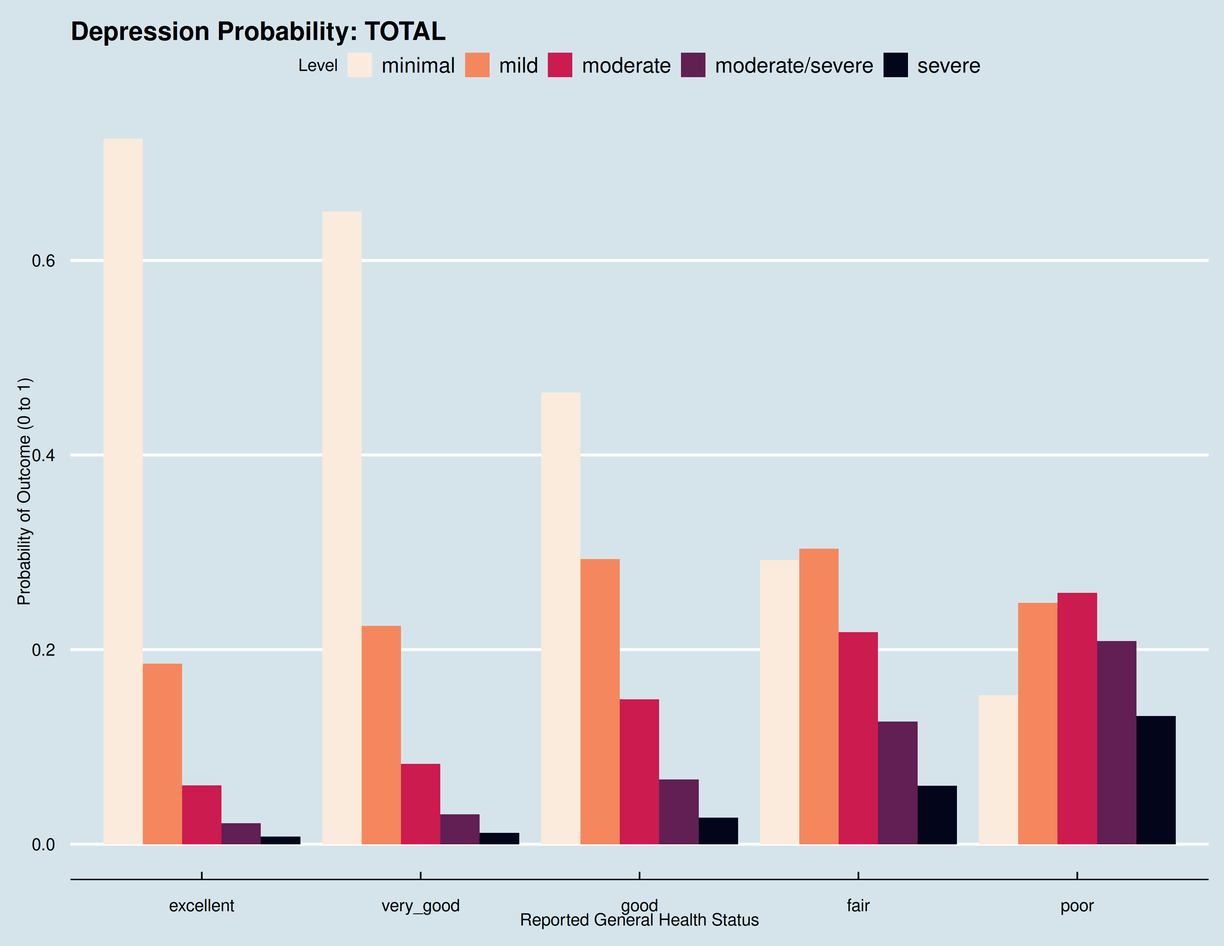
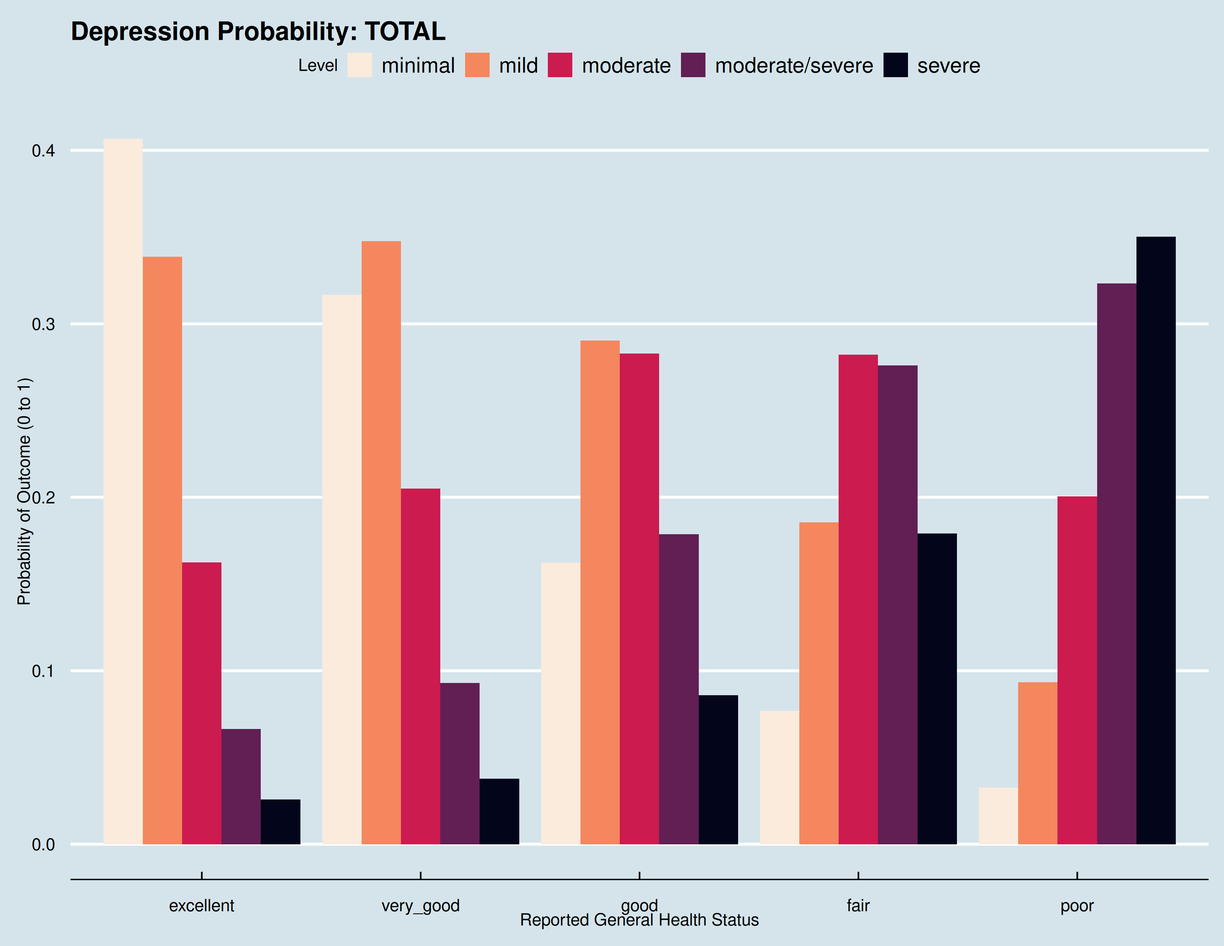
update interactive elements and fix shiny server rendering

Changed region(s): [[0.0312, 0.2169, 0.9988, 0.8984], [0.1248, 0.1549, 0.9676, 0.1859]]

diff --git a/figs/TOTAL.html b/figs/TOTAL.html
@@ -15,7 +15,7 @@
 
 </head>
 <body>
-<div class="girafe html-widget html-fill-item" id="htmlwidget-1cc1c3096321bd8302cf" style="width:960px;height:500px;"></div>
-<script type="application/json" data-for="htmlwidget-1cc1c3096321bd8302cf">{"x":{"html":"<?xml version=\"1.0\" encoding=\"UTF-8\"?>\n<svg xmlns='http://www.w3.org/2000/svg' xmlns:xlink='http://www.w3.org/1999/xlink' class='ggiraph-svg' role='graphics-document' id='svg_d3dea62f_7b63_4776_acbc_1efb795c2a20' viewBox='0 0 792 612'>\n <defs id='svg_d3dea62f_7b63_4776_acbc_1efb795c2a20_defs'>\n  <clipPath id='svg_d3dea62f_7b63_4776_acbc_1efb795c2a20_c1'>\n   <rect x='0' y='0' width='792' height='612'/>\n  <\/clipPath>\n  <clipPath id='svg_d3dea62f_7b63_4776_acbc_1efb795c2a20_c2'>\n   <rect x='45.95' y='66.9' width='736.08' height='502.19'/>\n  <\/clipPath>\n <\/defs>\n <g id='svg_d3dea62f_7b63_4776_acbc_1efb795c2a20_rootg' class='ggiraph-svg-rootg'>\n  <g clip-path='url(#svg_d3dea62f_7b63_4776_acbc_1efb795c2a20_c1)'>\n   <rect x='0' y='0' width='792' height='612' fill='#FFFFFF' fill-opacity='1' stroke='#FFFFFF' stroke-opacity='1' stroke-width='0.75' stroke-linejoin='round' stroke-linecap='round' class='ggiraph-svg-bg'/>\n   <rect x='-0' y='0' width='792' height='612' fill='#D5E4EB' fill-opacity='1' stroke='none'/>\n  <\/g>\n  <g clip-path='url(#svg_d3dea62f_7b63_4776_acbc_1efb795c2a20_c2)'>\n   <rect x='45.95' y='66.9' width='736.08' height='502.19' fill='none' stroke='none'/>\n   <polyline points='45.95,546.26 782.04,546.26' fill='none' stroke='#FFFFFF' stroke-opacity='1' stroke-width='1.87' stroke-linejoin='round' stroke-linecap='butt'/>\n   <polyline points='45.95,420.30 782.04,420.30' fill='none' stroke='#FFFFFF' stroke-opacity='1' stroke-width='1.87' stroke-linejoin='round' stroke-linecap='butt'/>\n   <polyline points='45.95,294.34 782.04,294.34' fill='none' stroke='#FFFFFF' stroke-opacity='1' stroke-width='1.87' stroke-linejoin='round' stroke-linecap='butt'/>\n   <polyline points='45.95,168.39 782.04,168.39' fill='none' stroke='#FFFFFF' stroke-opacity='1' stroke-width='1.87' stroke-linejoin='round' stroke-linecap='butt'/>\n   <rect id='svg_d3dea62f_7b63_4776_acbc_1efb795c2a20_e1' x='67.19' y='89.73' width='25.48' height='456.53' fill='#FAEBDD' fill-opacity='1' stroke='none' title='0.724900371297214' data-id='0.724900371297214'/>\n   <rect id='svg_d3dea62f_7b63_4776_acbc_1efb795c2a20_e2' x='92.67' y='429.52' width='25.48' height='116.74' fill='#F4875E' fill-opacity='1' stroke='none' title='0.185363306321178' data-id='0.185363306321178'/>\n   <rect id='svg_d3dea62f_7b63_4776_acbc_1efb795c2a20_e3' x='118.15' y='508.26' width='25.48' height='38' fill='#CB1B4F' fill-opacity='1' stroke='none' title='0.0603359377506501' data-id='0.0603359377506501'/>\n   <rect id='svg_d3dea62f_7b63_4776_acbc_1efb795c2a20_e4' x='143.63' y='532.74' width='25.48' height='13.52' fill='#611F53' fill-opacity='1' stroke='none' title='0.0214600208213575' data-id='0.0214600208213575'/>\n   <rect id='svg_d3dea62f_7b63_4776_acbc_1efb795c2a20_e5' x='169.11' y='541.26' width='25.48' height='5' fill='#03051A' fill-opacity='1' stroke='none' title='0.00794036380960032' data-id='0.00794036380960032'/>\n   <rect id='svg_d3dea62f_7b63_4776_acbc_1efb795c2a20_e6' x='491.85' y='362.37' width='25.48' height='183.89' fill='#FAEBDD' fill-opacity='1' stroke='none' title='0.291980369649558' data-id='0.291980369649558'/>\n   <rect id='svg_d3dea62f_7b63_4776_acbc_1efb795c2a20_e7' x='517.33' y='354.89' width='25.48' height='191.37' fill='#F4875E' fill-opacity='1' stroke='none' title='0.303863073774278' data-id='0.303863073774278'/>\n   <rect id='svg_d3dea62f_7b63_4776_acbc_1efb795c2a20_e8' x='542.81' y='408.93' width='25.48' height='137.33' fill='#CB1B4F' fill-opacity='1' stroke='none' title='0.218054753993619' data-id='0.218054753993619'/>\n   <rect id='svg_d3dea62f_7b63_4776_acbc_1efb795c2a20_e9' x='568.29' y='466.95' width='25.48' height='79.31' fill='#611F53' fill-opacity='1' stroke='none' title='0.125930025516381' data-id='0.125930025516381'/>\n   <rect id='svg_d3dea62f_7b63_4776_acbc_1efb795c2a20_e10' x='593.77' y='508.36' width='25.48' height='37.9' fill='#03051A' fill-opacity='1' stroke='none' title='0.060171777066163' data-id='0.060171777066163'/>\n   <rect id='svg_d3dea62f_7b63_4776_acbc_1efb795c2a20_e11' x='350.3' y='253.82' width='25.48' height='292.44' fill='#FAEBDD' fill-opacity='1' stroke='none' title='0.464351244892708' data-id='0.464351244892708'/>\n   <rect id='svg_d3dea62f_7b63_4776_acbc_1efb795c2a20_e12' x='375.78' y='361.73' width='25.48' height='184.53' fill='#F4875E' fill-opacity='1' stroke='none' title='0.293004276992802' data-id='0.293004276992802'/>\n   <rect id='svg_d3dea62f_7b63_4776_acbc_1efb795c2a20_e13' x='401.26' y='452.53' width='25.48' height='93.73' fill='#CB1B4F' fill-opacity='1' stroke='none' title='0.148827529385085' data-id='0.148827529385085'/>\n   <rect id='svg_d3dea62f_7b63_4776_acbc_1efb795c2a20_e14' x='426.74' y='504.35' width='25.48' height='41.91' fill='#611F53' fill-opacity='1' stroke='none' title='0.0665445408619174' data-id='0.0665445408619174'/>\n   <rect id='svg_d3dea62f_7b63_4776_acbc_1efb795c2a20_e15' x='452.22' y='529.08' width='25.48' height='17.18' fill='#03051A' fill-opacity='1' stroke='none' title='0.027272407867487' data-id='0.027272407867487'/>\n   <rect id='svg_d3dea62f_7b63_4776_acbc_1efb795c2a20_e16' x='633.4' y='449.86' width='25.48' height='96.4' fill='#FAEBDD' fill-opacity='1' stroke='none' title='0.15306659970715' data-id='0.15306659970715'/>\n   <rect id='svg_d3dea62f_7b63_4776_acbc_1efb795c2a20_e17' x='658.88' y='390.06' width='25.48' height='156.2' fill='#F4875E' fill-opacity='1' stroke='none' title='0.248014008580092' data-id='0.248014008580092'/>\n   <rect id='svg_d3dea62f_7b63_4776_acbc_1efb795c2a20_e18' x='684.36' y='383.62' width='25.48' height='162.64' fill='#CB1B4F' fill-opacity='1' stroke='none' title='0.258242639632563' data-id='0.258242639632563'/>\n   <rect id='svg_d3dea62f_7b63_4776_acbc_1efb795c2a20_e19' x='709.84' y='414.78' width='25.48' height='131.48' fill='#611F53' fill-opacity='1' stroke='none' title='0.208764873779622' data-id='0.208764873779622'/>\n   <rect id='svg_d3dea62f_7b63_4776_acbc_1efb795c2a20_e20' x='735.32' y='463.18' width='25.48' height='83.08' fill='#03051A' fill-opacity='1' stroke='none' title='0.131911878300572' data-id='0.131911878300572'/>\n   <rect id='svg_d3dea62f_7b63_4776_acbc_1efb795c2a20_e21' x='208.74' y='136.71' width='25.48' height='409.55' fill='#FAEBDD' fill-opacity='1' stroke='none' title='0.650299608507743' data-id='0.650299608507743'/>\n   <rect id='svg_d3dea62f_7b63_4776_acbc_1efb795c2a20_e22' x='234.22' y='404.83' width='25.48' height='141.43' fill='#F4875E' fill-opacity='1' stroke='none' title='0.224563516995641' data-id='0.224563516995641'/>\n   <rect id='svg_d3dea62f_7b63_4776_acbc_1efb795c2a20_e23' x='259.7' y='494.28' width='25.48' height='51.98' fill='#CB1B4F' fill-opacity='1' stroke='none' title='0.0825371560091628' data-id='0.0825371560091628'/>\n   <rect id='svg_d3dea62f_7b63_4776_acbc_1efb795c2a20_e24' x='285.18' y='526.79' width='25.48' height='19.47' fill='#611F53' fill-opacity='1' stroke='none' title='0.0309202962936936' data-id='0.0309202962936936'/>\n   <rect id='svg_d3dea62f_7b63_4776_acbc_1efb795c2a20_e25' x='310.66' y='538.9' width='25.48' height='7.36' fill='#03051A' fill-opacity='1' stroke='none' title='0.0116794221937591' data-id='0.0116794221937591'/>\n  <\/g>\n  <g clip-path='url(#svg_d3dea62f_7b63_4776_acbc_1efb795c2a20_c1)'>\n   <text x='20.46' y='550.19' font-size='8.25pt' font-family='Noto Sans'>0.0<\/text>\n   <text x='20.46' y='424.23' font-size='8.25pt' font-family='Noto Sans'>0.2<\/text>\n   <text x='20.46' y='298.27' font-size='8.25pt' font-family='Noto Sans'>0.4<\/text>\n   <text x='20.46' y='172.31' font-size='8.25pt' font-family='Noto Sans'>0.6<\/text>\n   <polyline points='45.95,569.09 782.04,569.09' fill='none' stroke='#000000' stroke-opacity='1' stroke-width='0.85' stroke-linejoin='round' stroke-linecap='butt'/>\n   <polyline points='130.89,564.11 130.89,569.09' fill='none' stroke='#000000' stroke-opacity='1' stroke-width='1.07' stroke-linejoin='round' stroke-linecap='butt'/>\n   <polyline points='272.44,564.11 272.44,569.09' fill='none' stroke='#000000' stroke-opacity='1' stroke-width='1.07' stroke-linejoin='round' stroke-linecap='butt'/>\n   <polyline points='414.00,564.11 414.00,569.09' fill='none' stroke='#000000' stroke-opacity='1' stroke-width='1.07' stroke-linejoin='round' stroke-linecap='butt'/>\n   <polyline points='555.55,564.11 555.55,569.09' fill='none' stroke='#000000' stroke-opacity='1' stroke-width='1.07' stroke-linejoin='round' stroke-linecap='butt'/>\n   <polyline points='697.10,564.11 697.10,569.09' fill='none' stroke='#000000' stroke-opacity='1' stroke-width='1.07' stroke-linejoin='round' stroke-linecap='butt'/>\n   <text x='107.81' y='589.55' font-size='8.25pt' font-family='Noto Sans'>excellent<\/text>\n   <text x='245.61' y='589.55' font-size='8.25pt' font-family='Noto Sans'>very_good<\/text>\n   <text x='400.57' y='589.55' font-size='8.25pt' font-family='Noto Sans'>good<\/text>\n   <text x='546.88' y='589.55' font-size='8.25pt' font-family='Noto Sans'>fair<\/text>\n   <text x='684.8' y='589.55' font-size='8.25pt' font-family='Noto Sans'>poor<\/text>\n   <text x='332.16' y='598.72' font-size='8.25pt' font-family='Noto Sans'>Reported General Health Status<\/text>\n   <text transform='translate(19.14,396.98) rotate(-90.00)' font-size='8.25pt' font-family='Noto Sans'>Probability of Outcome (0 to 1)<\/text>\n   <rect x='175.56' y='27.7' width='476.87' height='28.24' fill='none' stroke='none'/>\n   <text x='181.04' y='45.75' font-size='8.25pt' font-family='Noto Sans'>Level<\/text>\n   <rect x='213.13' y='33.18' width='17.28' height='17.28' fill='none' stroke='none'/>\n   <rect x='213.83' y='33.89' width='15.86' height='15.86' fill='#FAEBDD' fill-opacity='1' stroke='none'/>\n   <rect x='293.94' y='33.18' width='17.28' height='17.28' fill='none' stroke='none'/>\n   <rect x='294.65' y='33.89' width='15.86' height='15.86' fill='#F4875E' fill-opacity='1' stroke='none'/>\n   <rect x='350.59' y='33.18' width='17.28' height='17.28' fill='none' stroke='none'/>\n   <rect x='351.3' y='33.89' width='15.86' height='15.86' fill='#CB1B4F' fill-opacity='1' stroke='none'/>\n   <rect x='442.32' y='33.18' width='17.28' height='17.28' fill='none' stroke='none'/>\n   <rect x='443.03' y='33.89' width='15.86' height='15.86' fill='#611F53' fill-opacity='1' stroke='none'/>\n   <rect x='581.67' y='33.18' width='17.28' height='17.28' fill='none' stroke='none'/>\n   <rect x='582.38' y='33.89' width='15.86' height='15.86' fill='#03051A' fill-opacity='1' stroke='none'/>\n   <text x='235.88' y='46.73' font-size='10.31pt' font-family='Noto Sans'>minimal<\/text>\n   <text x='316.7' y='46.73' font-size='10.31pt' font-family='Noto Sans'>mild<\/text>\n   <text x='373.35' y='46.73' font-size='10.31pt' font-family='Noto Sans'>moderate<\/text>\n   <text x='465.08' y='46.73' font-size='10.31pt' font-family='Noto Sans'>moderate/severe<\/text>\n   <text x='604.43' y='46.73' font-size='10.31pt' font-family='Noto Sans'>severe<\/text>\n   <text x='45.95' y='25.72' font-size='12.38pt' font-weight='bold' font-family='Noto Sans'>Depression Probability: TOTAL<\/text>\n  <\/g>\n <\/g>\n<\/svg>","js":null,"uid":"svg_d3dea62f_7b63_4776_acbc_1efb795c2a20","ratio":1.294117647058824,"settings":{"tooltip":{"css":".tooltip_SVGID_ { padding:5px;background:black;color:white;border-radius:2px 2px 2px 2px;text-align:left; ; position:absolute;pointer-events:none;z-index:999;}","placement":"doc","opacity":0.9,"offx":10,"offy":0,"use_cursor_pos":true,"use_fill":false,"use_stroke":false,"delay_over":200,"delay_out":500},"hover":{"css":".hover_data_SVGID_ { fill:orange;stroke:gray; }","reactive":false,"nearest_distance":null},"hover_inv":{"css":""},"hover_key":{"css":".hover_key_SVGID_ { fill:orange;stroke:black;cursor:pointer; }\ntext.hover_key_SVGID_ { stroke:none;fill:orange; }\ncircle.hover_key_SVGID_ { fill:orange;stroke:black; }\nline.hover_key_SVGID_, polyline.hover_key_SVGID_ { fill:none;stroke:orange; }\nrect.hover_key_SVGID_, polygon.hover_key_SVGID_, path.hover_key_SVGID_ { fill:orange;stroke:none; }\nimage.hover_key_SVGID_ { stroke:orange; }","reactive":true},"hover_theme":{"css":".hover_theme_SVGID_ { fill:orange;stroke:black;cursor:pointer; }\ntext.hover_theme_SVGID_ { stroke:none;fill:orange; }\ncircle.hover_theme_SVGID_ { fill:orange;stroke:black; }\nline.hover_theme_SVGID_, polyline.hover_theme_SVGID_ { fill:none;stroke:orange; }\nrect.hover_theme_SVGID_, polygon.hover_theme_SVGID_, path.hover_theme_SVGID_ { fill:orange;stroke:none; }\nimage.hover_theme_SVGID_ { stroke:orange; }","reactive":true},"select":{"css":".select_data_SVGID_ { fill:red;stroke:gray; }","type":"multiple","only_shiny":true,"selected":[]},"select_inv":{"css":""},"select_key":{"css":".select_key_SVGID_ { fill:red;stroke:black;cursor:pointer; }\ntext.select_key_SVGID_ { stroke:none;fill:red; }\ncircle.select_key_SVGID_ { fill:red;stroke:black; }\nline.select_key_SVGID_, polyline.select_key_SVGID_ { fill:none;stroke:red; }\nrect.select_key_SVGID_, polygon.select_key_SVGID_, path.select_key_SVGID_ { fill:red;stroke:none; }\nimage.select_key_SVGID_ { stroke:red; }","type":"single","only_shiny":true,"selected":[]},"select_theme":{"css":".select_theme_SVGID_ { fill:red;stroke:black;cursor:pointer; }\ntext.select_theme_SVGID_ { stroke:none;fill:red; }\ncircle.select_theme_SVGID_ { fill:red;stroke:black; }\nline.select_theme_SVGID_, polyline.select_theme_SVGID_ { fill:none;stroke:red; }\nrect.select_theme_SVGID_, polygon.select_theme_SVGID_, path.select_theme_SVGID_ { fill:red;stroke:none; }\nimage.select_theme_SVGID_ { stroke:red; }","type":"single","only_shiny":true,"selected":[]},"zoom":{"min":1,"max":1,"duration":300},"toolbar":{"position":"top","pngname":"diagram","tooltips":null,"fixed":false,"hidden":"saveaspng","delay_over":200,"delay_out":500},"sizing":{"rescale":true,"width":0.75}}},"evals":[],"jsHooks":[]}</script>
+<div class="girafe html-widget html-fill-item" id="htmlwidget-b300f3db3144e7601efc" style="width:960px;height:500px;"></div>
+<script type="application/json" data-for="htmlwidget-b300f3db3144e7601efc">{"x":{"html":"<?xml version=\"1.0\" encoding=\"UTF-8\"?>\n<svg xmlns='http://www.w3.org/2000/svg' xmlns:xlink='http://www.w3.org/1999/xlink' class='ggiraph-svg' role='graphics-document' id='svg_cace046c_fe5b_460c_bc5a_4e7984a5590c' viewBox='0 0 792 612'>\n <defs id='svg_cace046c_fe5b_460c_bc5a_4e7984a5590c_defs'>\n  <clipPath id='svg_cace046c_fe5b_460c_bc5a_4e7984a5590c_c1'>\n   <rect x='0' y='0' width='792' height='612'/>\n  <\/clipPath>\n  <clipPath id='svg_cace046c_fe5b_460c_bc5a_4e7984a5590c_c2'>\n   <rect x='45.95' y='66.9' width='736.08' height='502.19'/>\n  <\/clipPath>\n <\/defs>\n <g id='svg_cace046c_fe5b_460c_bc5a_4e7984a5590c_rootg' class='ggiraph-svg-rootg'>\n  <g clip-path='url(#svg_cace046c_fe5b_460c_bc5a_4e7984a5590c_c1)'>\n   <rect x='0' y='0' width='792' height='612' fill='#FFFFFF' fill-opacity='1' stroke='#FFFFFF' stroke-opacity='1' stroke-width='0.75' stroke-linejoin='round' stroke-linecap='round' class='ggiraph-svg-bg'/>\n   <rect x='-0' y='0' width='792' height='612' fill='#D5E4EB' fill-opacity='1' stroke='none'/>\n  <\/g>\n  <g clip-path='url(#svg_cace046c_fe5b_460c_bc5a_4e7984a5590c_c2)'>\n   <rect x='45.95' y='66.9' width='736.08' height='502.19' fill='none' stroke='none'/>\n   <polyline points='45.95,546.26 782.04,546.26' fill='none' stroke='#FFFFFF' stroke-opacity='1' stroke-width='1.87' stroke-linejoin='round' stroke-linecap='butt'/>\n   <polyline points='45.95,433.99 782.04,433.99' fill='none' stroke='#FFFFFF' stroke-opacity='1' stroke-width='1.87' stroke-linejoin='round' stroke-linecap='butt'/>\n   <polyline points='45.95,321.73 782.04,321.73' fill='none' stroke='#FFFFFF' stroke-opacity='1' stroke-width='1.87' stroke-linejoin='round' stroke-linecap='butt'/>\n   <polyline points='45.95,209.46 782.04,209.46' fill='none' stroke='#FFFFFF' stroke-opacity='1' stroke-width='1.87' stroke-linejoin='round' stroke-linecap='butt'/>\n   <polyline points='45.95,97.19 782.04,97.19' fill='none' stroke='#FFFFFF' stroke-opacity='1' stroke-width='1.87' stroke-linejoin='round' stroke-linecap='butt'/>\n   <rect id='svg_cace046c_fe5b_460c_bc5a_4e7984a5590c_e1' x='67.19' y='89.73' width='25.48' height='456.53' fill='#FAEBDD' fill-opacity='1' stroke='none' title='0.406650027697983' data-id='0.406650027697983'/>\n   <rect id='svg_cace046c_fe5b_460c_bc5a_4e7984a5590c_e2' x='92.67' y='166' width='25.48' height='380.26' fill='#F4875E' fill-opacity='1' stroke='none' title='0.338710519052436' data-id='0.338710519052436'/>\n   <rect id='svg_cace046c_fe5b_460c_bc5a_4e7984a5590c_e3' x='118.15' y='363.92' width='25.48' height='182.34' fill='#CB1B4F' fill-opacity='1' stroke='none' title='0.162416967273828' data-id='0.162416967273828'/>\n   <rect id='svg_cace046c_fe5b_460c_bc5a_4e7984a5590c_e4' x='143.63' y='471.75' width='25.48' height='74.51' fill='#611F53' fill-opacity='1' stroke='none' title='0.0663719626215128' data-id='0.0663719626215128'/>\n   <rect id='svg_cace046c_fe5b_460c_bc5a_4e7984a5590c_e5' x='169.11' y='517.24' width='25.48' height='29.02' fill='#03051A' fill-opacity='1' stroke='none' title='0.0258505233542394' data-id='0.0258505233542394'/>\n   <rect id='svg_cace046c_fe5b_460c_bc5a_4e7984a5590c_e6' x='491.85' y='459.93' width='25.48' height='86.33' fill='#FAEBDD' fill-opacity='1' stroke='none' title='0.0768944607267733' data-id='0.0768944607267733'/>\n   <rect id='svg_cace046c_fe5b_460c_bc5a_4e7984a5590c_e7' x='517.33' y='337.98' width='25.48' height='208.28' fill='#F4875E' fill-opacity='1' stroke='none' title='0.185519624028636' data-id='0.185519624028636'/>\n   <rect id='svg_cace046c_fe5b_460c_bc5a_4e7984a5590c_e8' x='542.81' y='229.34' width='25.48' height='316.92' fill='#CB1B4F' fill-opacity='1' stroke='none' title='0.282295445754428' data-id='0.282295445754428'/>\n   <rect id='svg_cace046c_fe5b_460c_bc5a_4e7984a5590c_e9' x='568.29' y='236.31' width='25.48' height='309.96' fill='#611F53' fill-opacity='1' stroke='none' title='0.276087332531559' data-id='0.276087332531559'/>\n   <rect id='svg_cace046c_fe5b_460c_bc5a_4e7984a5590c_e10' x='593.77' y='345.07' width='25.48' height='201.19' fill='#03051A' fill-opacity='1' stroke='none' title='0.179203136958603' data-id='0.179203136958603'/>\n   <rect id='svg_cace046c_fe5b_460c_bc5a_4e7984a5590c_e11' x='350.3' y='364.14' width='25.48' height='182.12' fill='#FAEBDD' fill-opacity='1' stroke='none' title='0.162219923139918' data-id='0.162219923139918'/>\n   <rect id='svg_cace046c_fe5b_460c_bc5a_4e7984a5590c_e12' x='375.78' y='220.2' width='25.48' height='326.06' fill='#F4875E' fill-opacity='1' stroke='none' title='0.290434406213747' data-id='0.290434406213747'/>\n   <rect id='svg_cace046c_fe5b_460c_bc5a_4e7984a5590c_e13' x='401.26' y='228.69' width='25.48' height='317.57' fill='#CB1B4F' fill-opacity='1' stroke='none' title='0.282868012819216' data-id='0.282868012819216'/>\n   <rect id='svg_cace046c_fe5b_460c_bc5a_4e7984a5590c_e14' x='426.74' y='345.73' width='25.48' height='200.53' fill='#611F53' fill-opacity='1' stroke='none' title='0.178617425809442' data-id='0.178617425809442'/>\n   <rect id='svg_cace046c_fe5b_460c_bc5a_4e7984a5590c_e15' x='452.22' y='449.87' width='25.48' height='96.39' fill='#03051A' fill-opacity='1' stroke='none' title='0.0858602320176776' data-id='0.0858602320176776'/>\n   <rect id='svg_cace046c_fe5b_460c_bc5a_4e7984a5590c_e16' x='633.4' y='509.61' width='25.48' height='36.65' fill='#FAEBDD' fill-opacity='1' stroke='none' title='0.0326429623967692' data-id='0.0326429623967692'/>\n   <rect id='svg_cace046c_fe5b_460c_bc5a_4e7984a5590c_e17' x='658.88' y='441.49' width='25.48' height='104.77' fill='#F4875E' fill-opacity='1' stroke='none' title='0.0933252141849222' data-id='0.0933252141849222'/>\n   <rect id='svg_cace046c_fe5b_460c_bc5a_4e7984a5590c_e18' x='684.36' y='321.19' width='25.48' height='225.07' fill='#CB1B4F' fill-opacity='1' stroke='none' title='0.200476078454595' data-id='0.200476078454595'/>\n   <rect id='svg_cace046c_fe5b_460c_bc5a_4e7984a5590c_e19' x='709.84' y='183.25' width='25.48' height='363.01' fill='#611F53' fill-opacity='1' stroke='none' title='0.323348192178811' data-id='0.323348192178811'/>\n   <rect id='svg_cace046c_fe5b_460c_bc5a_4e7984a5590c_e20' x='735.32' y='153.09' width='25.48' height='393.17' fill='#03051A' fill-opacity='1' stroke='none' title='0.350207552784902' data-id='0.350207552784902'/>\n   <rect id='svg_cace046c_fe5b_460c_bc5a_4e7984a5590c_e21' x='208.74' y='190.83' width='25.48' height='355.43' fill='#FAEBDD' fill-opacity='1' stroke='none' title='0.316591596486805' data-id='0.316591596486805'/>\n   <rect id='svg_cace046c_fe5b_460c_bc5a_4e7984a5590c_e22' x='234.22' y='155.93' width='25.48' height='390.33' fill='#F4875E' fill-opacity='1' stroke='none' title='0.347676045254717' data-id='0.347676045254717'/>\n   <rect id='svg_cace046c_fe5b_460c_bc5a_4e7984a5590c_e23' x='259.7' y='316.03' width='25.48' height='230.23' fill='#CB1B4F' fill-opacity='1' stroke='none' title='0.205073607205815' data-id='0.205073607205815'/>\n   <rect id='svg_cace046c_fe5b_460c_bc5a_4e7984a5590c_e24' x='285.18' y='441.98' width='25.48' height='104.28' fill='#611F53' fill-opacity='1' stroke='none' title='0.0928831891720165' data-id='0.0928831891720165'/>\n   <rect id='svg_cace046c_fe5b_460c_bc5a_4e7984a5590c_e25' x='310.66' y='503.85' width='25.48' height='42.41' fill='#03051A' fill-opacity='1' stroke='none' title='0.037775561880647' data-id='0.037775561880647'/>\n  <\/g>\n  <g clip-path='url(#svg_cace046c_fe5b_460c_bc5a_4e7984a5590c_c1)'>\n   <text x='20.46' y='550.19' font-size='8.25pt' font-family='Noto Sans'>0.0<\/text>\n   <text x='20.46' y='437.92' font-size='8.25pt' font-family='Noto Sans'>0.1<\/text>\n   <text x='20.46' y='325.65' font-size='8.25pt' font-family='Noto Sans'>0.2<\/text>\n   <text x='20.46' y='213.39' font-size='8.25pt' font-family='Noto Sans'>0.3<\/text>\n   <text x='20.46' y='101.12' font-size='8.25pt' font-family='Noto Sans'>0.4<\/text>\n   <polyline points='45.95,569.09 782.04,569.09' fill='none' stroke='#000000' stroke-opacity='1' stroke-width='0.85' stroke-linejoin='round' stroke-linecap='butt'/>\n   <polyline points='130.89,564.11 130.89,569.09' fill='none' stroke='#000000' stroke-opacity='1' stroke-width='1.07' stroke-linejoin='round' stroke-linecap='butt'/>\n   <polyline points='272.44,564.11 272.44,569.09' fill='none' stroke='#000000' stroke-opacity='1' stroke-width='1.07' stroke-linejoin='round' stroke-linecap='butt'/>\n   <polyline points='414.00,564.11 414.00,569.09' fill='none' stroke='#000000' stroke-opacity='1' stroke-width='1.07' stroke-linejoin='round' stroke-linecap='butt'/>\n   <polyline points='555.55,564.11 555.55,569.09' fill='none' stroke='#000000' stroke-opacity='1' stroke-width='1.07' stroke-linejoin='round' stroke-linecap='butt'/>\n   <polyline points='697.10,564.11 697.10,569.09' fill='none' stroke='#000000' stroke-opacity='1' stroke-width='1.07' stroke-linejoin='round' stroke-linecap='butt'/>\n   <text x='107.81' y='589.55' font-size='8.25pt' font-family='Noto Sans'>excellent<\/text>\n   <text x='245.61' y='589.55' font-size='8.25pt' font-family='Noto Sans'>very_good<\/text>\n   <text x='400.57' y='589.55' font-size='8.25pt' font-family='Noto Sans'>good<\/text>\n   <text x='546.88' y='589.55' font-size='8.25pt' font-family='Noto Sans'>fair<\/text>\n   <text x='684.8' y='589.55' font-size='8.25pt' font-family='Noto Sans'>poor<\/text>\n   <text x='332.16' y='598.72' font-size='8.25pt' font-family='Noto Sans'>Reported General Health Status<\/text>\n   <text transform='translate(19.14,396.98) rotate(-90.00)' font-size='8.25pt' font-family='Noto Sans'>Probability of Outcome (0 to 1)<\/text>\n   <rect x='175.56' y='27.7' width='476.87' height='28.24' fill='none' stroke='none'/>\n   <text x='181.04' y='45.75' font-size='8.25pt' font-family='Noto Sans'>Level<\/text>\n   <rect x='213.13' y='33.18' width='17.28' height='17.28' fill='none' stroke='none'/>\n   <rect x='213.83' y='33.89' width='15.86' height='15.86' fill='#FAEBDD' fill-opacity='1' stroke='none'/>\n   <rect x='293.94' y='33.18' width='17.28' height='17.28' fill='none' stroke='none'/>\n   <rect x='294.65' y='33.89' width='15.86' height='15.86' fill='#F4875E' fill-opacity='1' stroke='none'/>\n   <rect x='350.59' y='33.18' width='17.28' height='17.28' fill='none' stroke='none'/>\n   <rect x='351.3' y='33.89' width='15.86' height='15.86' fill='#CB1B4F' fill-opacity='1' stroke='none'/>\n   <rect x='442.32' y='33.18' width='17.28' height='17.28' fill='none' stroke='none'/>\n   <rect x='443.03' y='33.89' width='15.86' height='15.86' fill='#611F53' fill-opacity='1' stroke='none'/>\n   <rect x='581.67' y='33.18' width='17.28' height='17.28' fill='none' stroke='none'/>\n   <rect x='582.38' y='33.89' width='15.86' height='15.86' fill='#03051A' fill-opacity='1' stroke='none'/>\n   <text x='235.88' y='46.73' font-size='10.31pt' font-family='Noto Sans'>minimal<\/text>\n   <text x='316.7' y='46.73' font-size='10.31pt' font-family='Noto Sans'>mild<\/text>\n   <text x='373.35' y='46.73' font-size='10.31pt' font-family='Noto Sans'>moderate<\/text>\n   <text x='465.08' y='46.73' font-size='10.31pt' font-family='Noto Sans'>moderate/severe<\/text>\n   <text x='604.43' y='46.73' font-size='10.31pt' font-family='Noto Sans'>severe<\/text>\n   <text x='45.95' y='25.72' font-size='12.38pt' font-weight='bold' font-family='Noto Sans'>Depression Probability: TOTAL<\/text>\n  <\/g>\n <\/g>\n<\/svg>","js":null,"uid":"svg_cace046c_fe5b_460c_bc5a_4e7984a5590c","ratio":1.294117647058824,"settings":{"tooltip":{"css":".tooltip_SVGID_ { padding:5px;background:black;color:white;border-radius:2px 2px 2px 2px;text-align:left; ; position:absolute;pointer-events:none;z-index:999;}","placement":"doc","opacity":0.9,"offx":10,"offy":0,"use_cursor_pos":true,"use_fill":false,"use_stroke":false,"delay_over":200,"delay_out":500},"hover":{"css":".hover_data_SVGID_ { fill:orange;stroke:gray; }","reactive":false,"nearest_distance":null},"hover_inv":{"css":""},"hover_key":{"css":".hover_key_SVGID_ { fill:orange;stroke:black;cursor:pointer; }\ntext.hover_key_SVGID_ { stroke:none;fill:orange; }\ncircle.hover_key_SVGID_ { fill:orange;stroke:black; }\nline.hover_key_SVGID_, polyline.hover_key_SVGID_ { fill:none;stroke:orange; }\nrect.hover_key_SVGID_, polygon.hover_key_SVGID_, path.hover_key_SVGID_ { fill:orange;stroke:none; }\nimage.hover_key_SVGID_ { stroke:orange; }","reactive":true},"hover_theme":{"css":".hover_theme_SVGID_ { fill:orange;stroke:black;cursor:pointer; }\ntext.hover_theme_SVGID_ { stroke:none;fill:orange; }\ncircle.hover_theme_SVGID_ { fill:orange;stroke:black; }\nline.hover_theme_SVGID_, polyline.hover_theme_SVGID_ { fill:none;stroke:orange; }\nrect.hover_theme_SVGID_, polygon.hover_theme_SVGID_, path.hover_theme_SVGID_ { fill:orange;stroke:none; }\nimage.hover_theme_SVGID_ { stroke:orange; }","reactive":true},"select":{"css":".select_data_SVGID_ { fill:red;stroke:gray; }","type":"multiple","only_shiny":true,"selected":[]},"select_inv":{"css":""},"select_key":{"css":".select_key_SVGID_ { fill:red;stroke:black;cursor:pointer; }\ntext.select_key_SVGID_ { stroke:none;fill:red; }\ncircle.select_key_SVGID_ { fill:red;stroke:black; }\nline.select_key_SVGID_, polyline.select_key_SVGID_ { fill:none;stroke:red; }\nrect.select_key_SVGID_, polygon.select_key_SVGID_, path.select_key_SVGID_ { fill:red;stroke:none; }\nimage.select_key_SVGID_ { stroke:red; }","type":"single","only_shiny":true,"selected":[]},"select_theme":{"css":".select_theme_SVGID_ { fill:red;stroke:black;cursor:pointer; }\ntext.select_theme_SVGID_ { stroke:none;fill:red; }\ncircle.select_theme_SVGID_ { fill:red;stroke:black; }\nline.select_theme_SVGID_, polyline.select_theme_SVGID_ { fill:none;stroke:red; }\nrect.select_theme_SVGID_, polygon.select_theme_SVGID_, path.select_theme_SVGID_ { fill:red;stroke:none; }\nimage.select_theme_SVGID_ { stroke:red; }","type":"single","only_shiny":true,"selected":[]},"zoom":{"min":1,"max":1,"duration":300},"toolbar":{"position":"top","pngname":"diagram","tooltips":null,"fixed":false,"hidden":"saveaspng","delay_over":200,"delay_out":500},"sizing":{"rescale":true,"width":0.75}}},"evals":[],"jsHooks":[]}</script>
 </body>
 </html>
